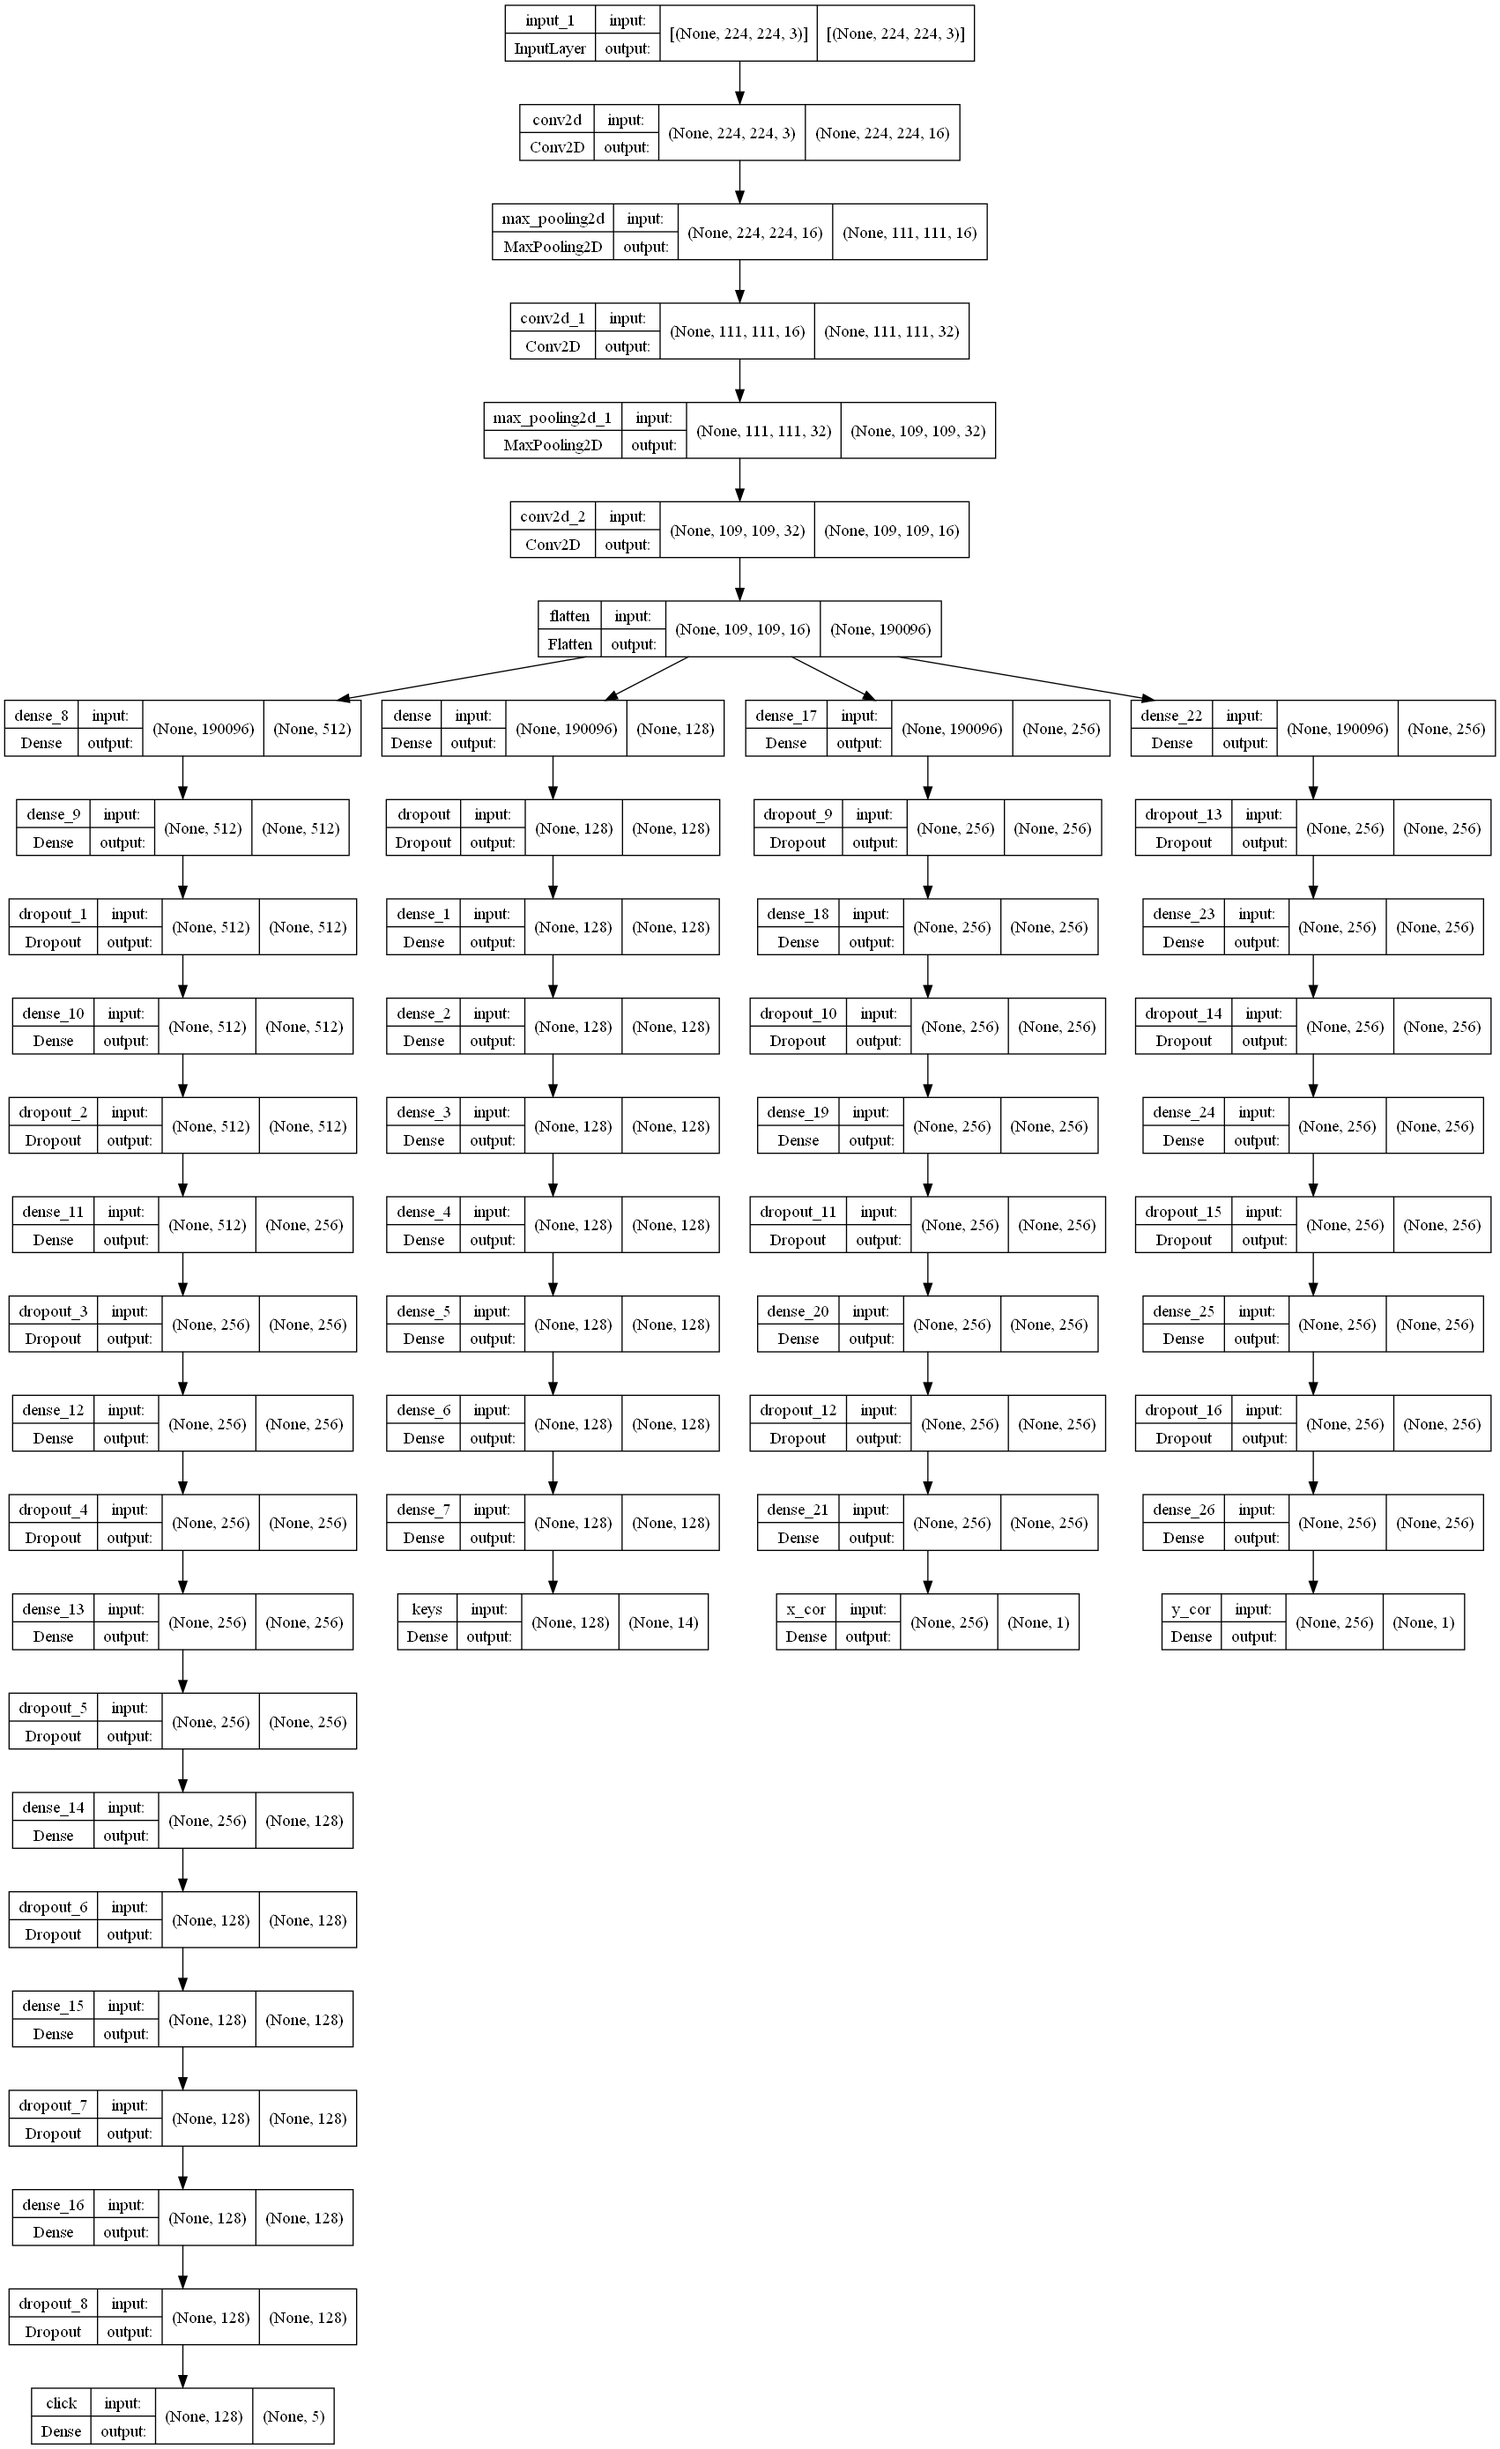
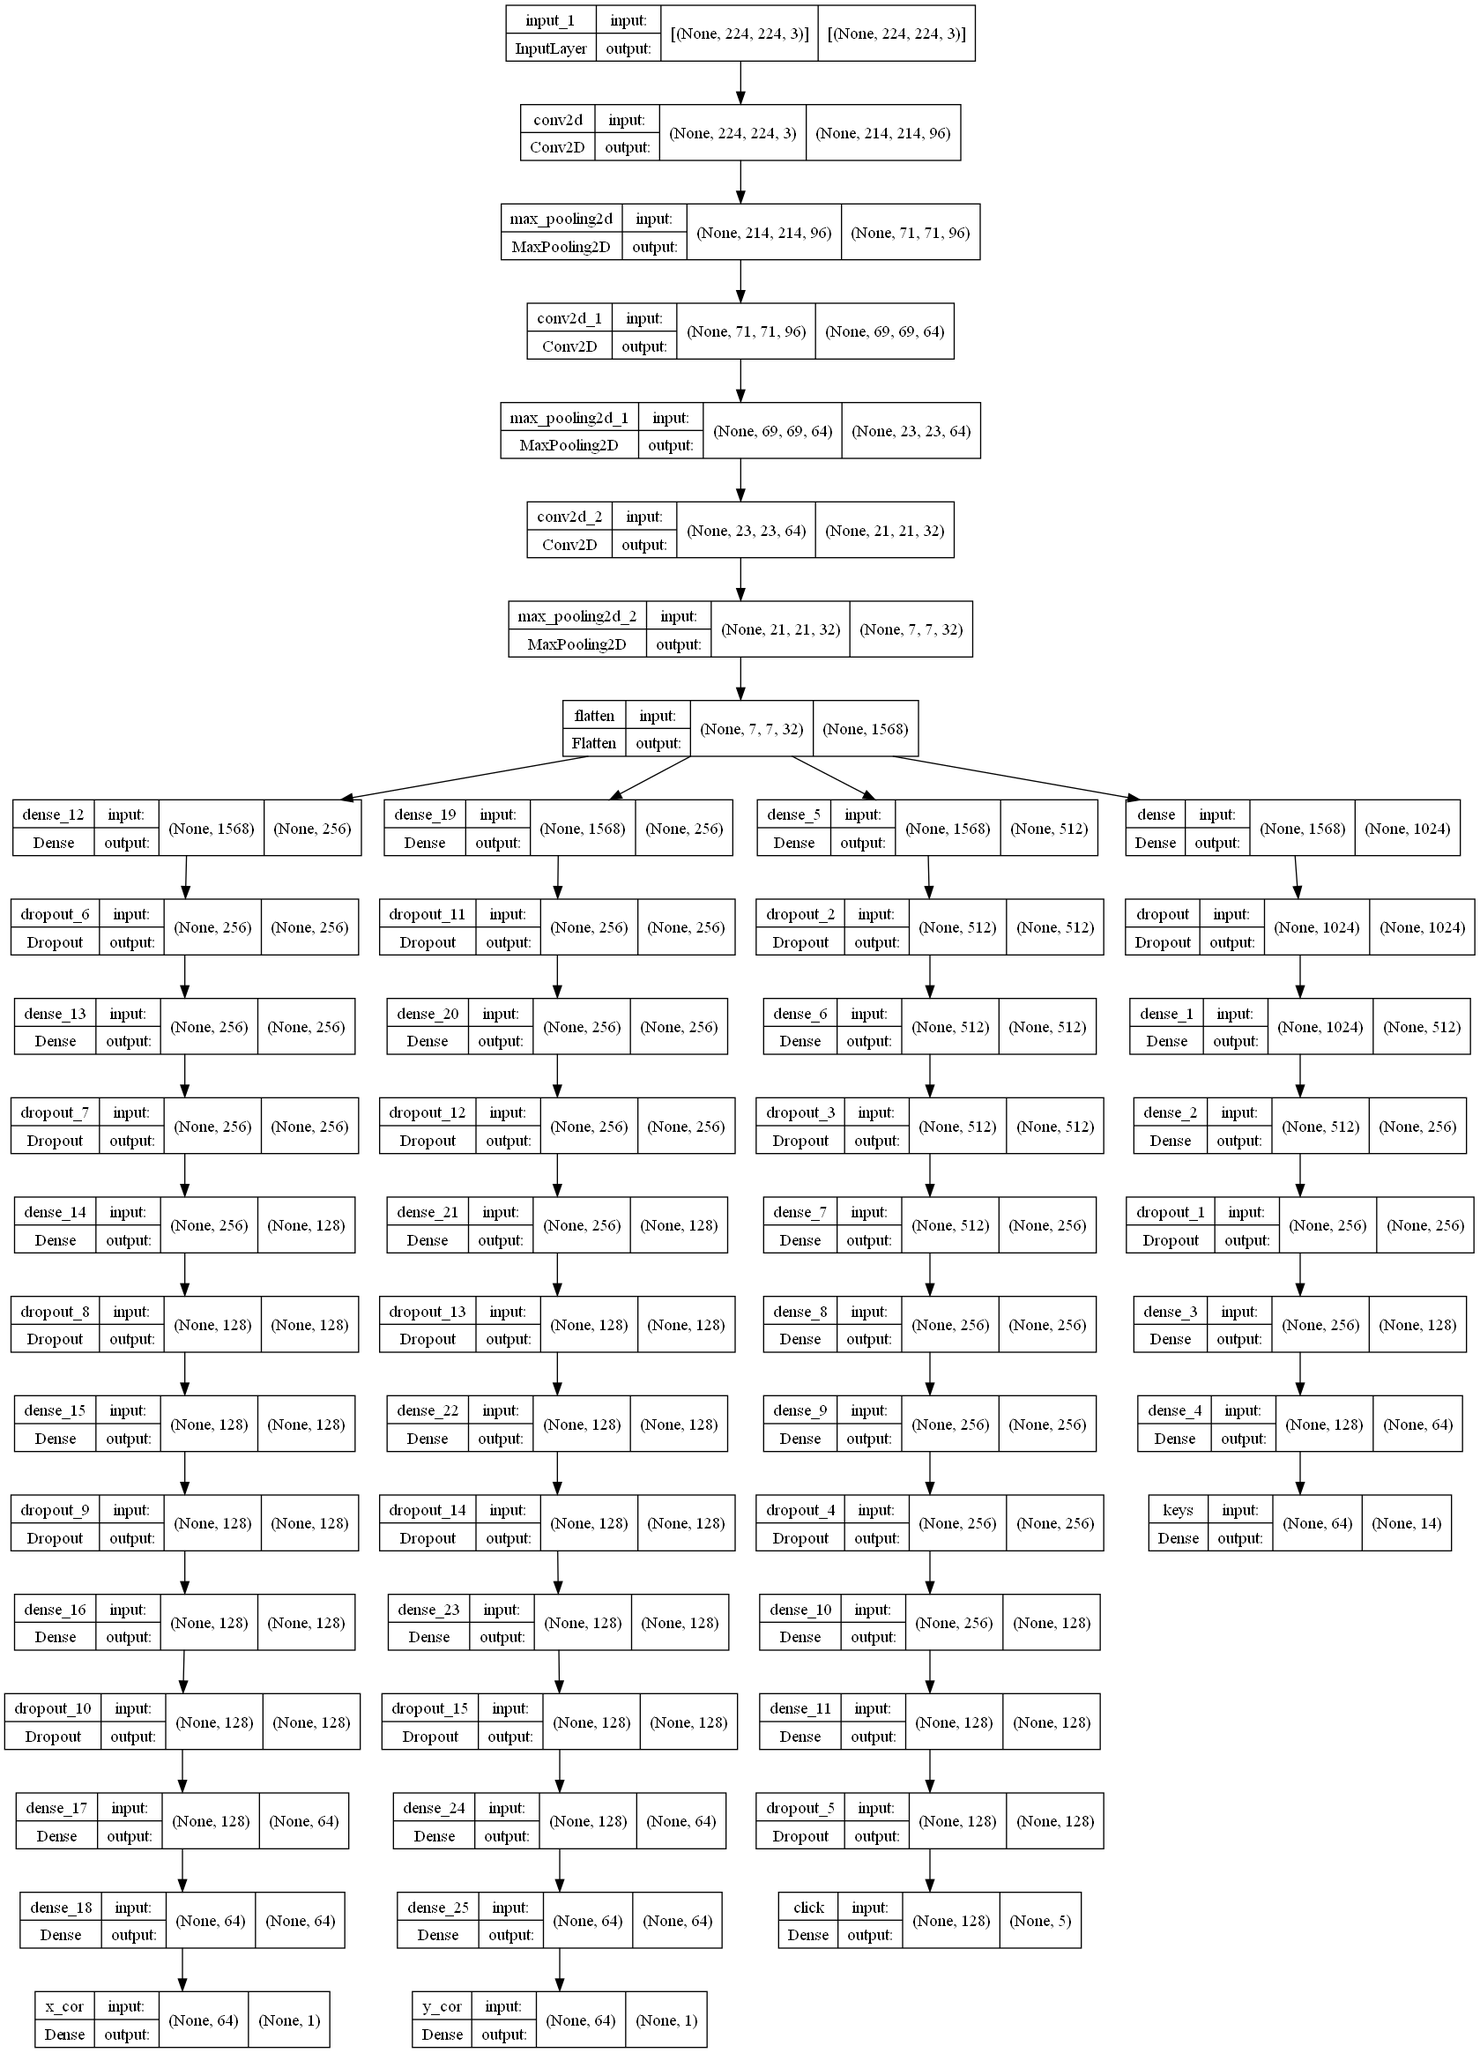
Model 2.0

diff --git a/Model_2.1.py b/Model_2.1.py
@@ -1,6 +1,7 @@
 from keras.layers import Input, Dropout, Conv2D, MaxPooling2D, Flatten, Dense
 from keras.models import Model
 from keras import activations
+from keras import backend as K
 from tensorflow import keras
 import sys
 
@@ -10,14 +11,16 @@ os.environ["PATH"] += os.pathsep + 'C:/Program Files/Graphviz/bin/'
 
 def build_model():
     input_shape = (224, 224, 3)
+    # 480 x 270 // 640 x 360
 
     inputs = Input(shape=input_shape)
 
-    conv = Conv2D(16, kernel_size=(3, 3), activation=activations.relu, padding='same')(inputs)
-    conv = MaxPooling2D(pool_size=(3, 3), strides=2)(conv)
-    conv = Conv2D(32, kernel_size=(3, 3), activation=activations.relu, padding='same')(conv)
-    conv = MaxPooling2D(pool_size=(3, 3), strides=1)(conv)
-    conv = Conv2D(16, kernel_size=(3, 3), activation=activations.relu, padding='same')(conv)
+    conv = Conv2D(96, kernel_size=(11, 11), activation=activations.relu, padding='valid')(inputs)
+    conv = MaxPooling2D(pool_size=(3, 3), strides=3)(conv)
+    conv = Conv2D(64, kernel_size=(3, 3), activation=activations.relu, padding='valid')(conv)
+    conv = MaxPooling2D(pool_size=(3, 3), strides=3)(conv)
+    conv = Conv2D(32, kernel_size=(3, 3), activation=activations.relu, padding='valid')(conv)
+    conv = MaxPooling2D(pool_size=(3, 3), strides=3)(conv)
 
     flat = Flatten()(conv)
 
@@ -75,7 +78,7 @@ def build_model():
 
     ycor_output = Dense(1, name="y_cor")(ycor)
 
-    mod = Model(inputs=inputs, outputs=[keys_output, click_output, xcor_output,ycor_output])
+    mod = Model(inputs=inputs, outputs=[keys_output, click_output, xcor_output, ycor_output])
 
     return mod
 
@@ -91,6 +94,8 @@ def save_model(model):
 
 
 model = build_model()
+plot_model(model)
+save_model(model)
 model.summary()
 
 

diff --git a/Model_2.4.py b/Model_2.4.py
@@ -13,16 +13,16 @@ def build_model():
 
     inputs = Input(shape=input_shape)
 
-    conv = Conv2D(16, kernel_size=(3, 3), activation=activations.leaky_relu, padding='same')(inputs)
+    conv = Conv2D(16, kernel_size=(3, 3), activation=activations.leaky_relu, padding='valid')(inputs)
     conv = MaxPooling2D(pool_size=(2, 2), strides=2)(conv)
-    conv = Conv2D(32, kernel_size=(5, 5), activation=activations.leaky_relu, padding='same')(conv)
+    conv = Conv2D(32, kernel_size=(3, 3), activation=activations.leaky_relu, padding='valid')(conv)
     conv = MaxPooling2D(pool_size=(2, 2), strides=2)(conv)
     conv = Conv2D(64, kernel_size=(3, 3), activation=activations.leaky_relu, padding='valid')(conv)
-    conv = MaxPooling2D(pool_size=(2, 2), strides=1)(conv)
-    conv = Conv2D(32, kernel_size=(5, 5), activation=activations.leaky_relu, padding='valid')(conv)
+    conv = MaxPooling2D(pool_size=(2, 2), strides=2)(conv)
+    conv = Conv2D(32, kernel_size=(3, 3), activation=activations.leaky_relu, padding='valid')(conv)
     conv = MaxPooling2D(pool_size=(2, 2), strides=2)(conv)
     conv = Conv2D(16, kernel_size=(3, 3), activation=activations.leaky_relu, padding='valid')(conv)
-    conv = MaxPooling2D(pool_size=(2, 2), strides=1)(conv)
+    conv = MaxPooling2D(pool_size=(2, 2), strides=2)(conv)
 
     flat = Flatten()(conv)
 

diff --git a/Model_2.3.py b/Model_2.3.py
@@ -14,13 +14,13 @@ def build_model():
     inputs = Input(shape=input_shape)
 
     conv = Conv2D(32, kernel_size=(5, 5), activation=activations.relu, padding='valid')(inputs)
-    conv = MaxPooling2D(pool_size=(3, 3), strides=2)(conv)
+    conv = MaxPooling2D(pool_size=(3, 3), strides=3)(conv)
     conv = Conv2D(32, kernel_size=(5, 5), activation=activations.leaky_relu, padding='valid')(conv)
-    conv = MaxPooling2D(pool_size=(3, 3), strides=2)(conv)
+    conv = MaxPooling2D(pool_size=(3, 3), strides=3)(conv)
     conv = Conv2D(64, kernel_size=(3, 3), activation=activations.relu, padding='valid')(conv)
-    conv = MaxPooling2D(pool_size=(3, 3), strides=1)(conv)
+    conv = MaxPooling2D(pool_size=(3, 3), strides=3)(conv)
     conv = Conv2D(64, kernel_size=(3, 3), activation=activations.leaky_relu, padding='valid')(conv)
-    conv = MaxPooling2D(pool_size=(3, 3), strides=1)(conv)
+    conv = MaxPooling2D(pool_size=(3, 3), strides=3)(conv)
 
     flat = Flatten()(conv)
 
@@ -109,7 +109,7 @@ def save_model(model):
 
 
 model = build_model()
-save_model(model)
 plot_model(model)
+save_model(model)
 model.summary()
 

diff --git a/Model_2.2.py b/Model_2.2.py
@@ -13,12 +13,12 @@ def build_model():
 
     inputs = Input(shape=input_shape)
 
-    conv = Conv2D(16, kernel_size=(3, 3), activation=activations.relu, padding='valid')(inputs)
-    conv = MaxPooling2D(pool_size=(2, 2), strides=1)(conv)
-    conv = Conv2D(32, kernel_size=(5, 5), activation=activations.leaky_relu, padding='valid')(conv)
-    conv = MaxPooling2D(pool_size=(3, 3), strides=1)(conv)
-    conv = Conv2D(64, kernel_size=(5, 5), activation=activations.relu, padding='valid')(conv)
-    conv = MaxPooling2D(pool_size=(2, 2), strides=1)(conv)
+    conv = Conv2D(16, kernel_size=(5, 5), activation=activations.relu, padding='valid')(inputs)
+    conv = MaxPooling2D(pool_size=(3, 3), strides=3)(conv)
+    conv = Conv2D(32, kernel_size=(3, 3), activation=activations.leaky_relu, padding='valid')(conv)
+    conv = MaxPooling2D(pool_size=(3, 3), strides=3)(conv)
+    conv = Conv2D(64, kernel_size=(3, 3), activation=activations.relu, padding='valid')(conv)
+    conv = MaxPooling2D(pool_size=(3, 3), strides=3)(conv)
 
     flat = Flatten()(conv)
 

diff --git a/weights_initialisation.py b/weights_initialisation.py
@@ -21,5 +21,5 @@ def initialize_model_weights(filepath):
     return model
 
 
-model = initialize_model_weights('model_6.json')
-model.save_weights('model_6.h5')
+model = initialize_model_weights('model.json')
+model.save_weights('model.h5')
